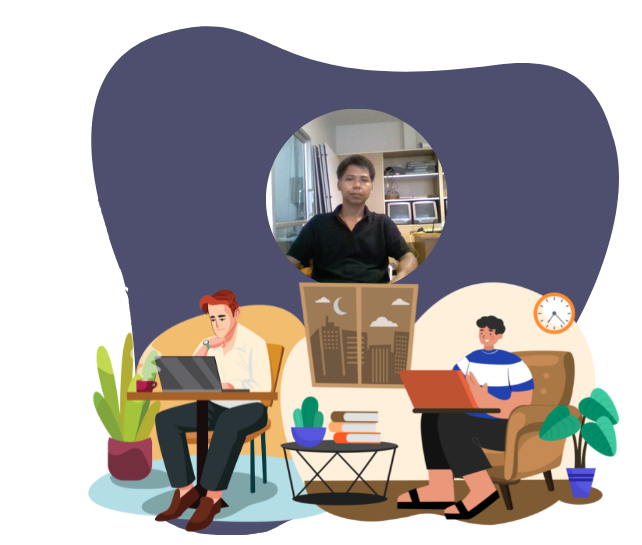
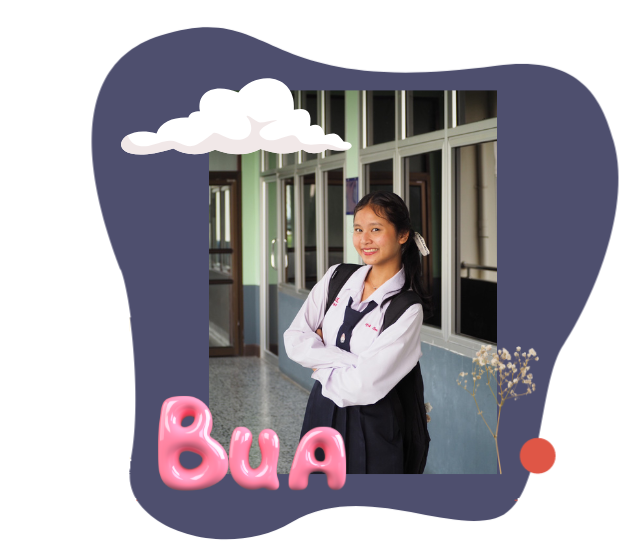
main

diff --git a/index.html b/index.html
@@ -6,7 +6,7 @@
     <meta charset="utf-8" />
     <meta http-equiv="x-ua-compatible" content="ie=edge" />
     <meta name="description" content="พอร์ตโฟลิโอ, ประวัติสวนตัว, พอร์ตเรียนต่อ, พอร์ตงาน, โปรไฟล์ของฉัน" />
-    <meta name="author" content="นายพัฒนา บุญถึง">
+    <meta name="author" content="นางสาวณัฐวดี เรืองอรุณ">
     <meta name="viewport" content="width=device-width, initial-scale=1, shrink-to-fit=no" />
 
     <!--====== Title ======-->
@@ -82,8 +82,8 @@
                         <div class="container">
                             <div class="number-email-cv">
                                 <ul class="number-email">
-                                    <li>มือถือ: (+66) 09-7247-812888</li>
-                                    <li>อีเมล์: pattanadevelop@gmail.com</li>
+                                    <li>มือถือ: (+66) 094-4499176</li>
+                                    <li>อีเมล์:28998.natthawadeep@gmail.com</li>
                                 </ul>
                                     <li><a href="index.html">ไทย</a> | <a href="index-en.html">อังกฤษ</a></li>
                             </div>
@@ -91,15 +91,15 @@
                                 <div class="col-lg-5">
                                     <div class="about-content pt-100 rpt-0 animate-element delay5 fadeInUp">
                                         <span class="sub-title mb-15 animate-element delay3 fadeInUp">เกี่ยวกับฉัน</span>
-                                        <h2 class="slide-title animate-element delay5 fadeInUp">สวัสดีขอรับ,<br> ผม <span class="text-typed a-typed a-typed-about" data-text="พัฒนา บุญถึง"></span></h2>
+                                        <h2 class="slide-title animate-element delay5 fadeInUp">สวัสดีค่ะ,<br> ผม <span class="text-typed a-typed a-typed-about" data-text="ณัฐวดี เรืองอรุณ"></span></h2>
                                         <h3 class="animate-element delay7 fadeInUp">โรงเรียนดาราสมุทร ศรีราชา</h3>
-                                        <p class="animate-element delay8 fadeInUp">วัน เดือน ปีเกิด<b>::)</b>  10 สิงหาคม 2521.</p>
-                                        <p class="animate-element delay8 fadeInUp">ชื่อเล่น<b>::)</b>  ยางมะตอย.</p>
-                                        <p class="animate-element delay8 fadeInUp">คติประจำใจ<b>::)</b>  อนาคตขึ้นอยู่กับสิ่งที่เราทำในปัจจุบัน.</p>
+                                        <p class="animate-element delay8 fadeInUp">วันจันทร์ที่ 25 ธันวาคม พ.ศ.2549<b>::)</b>  10 สิงหาคม 2521.</p>
+                                        <p class="animate-element delay8 fadeInUp">ชื่อเล่น<b>::)</b>  ใบบัว.</p>
+                                        <p class="animate-element delay8 fadeInUp">คติประจำใจ<b>::)</b>  พรุ่งนี้.</p>
                                         <div class="social-style-one mt-55 rmt-35 animate-element delay10 fadeInUp">
-                                            <a href="https://www.facebook.com/sirachadevelop"><i class="fab fa-facebook-f"></i></a>
-                                            <a href="https://www.twitter.com/sirachadevelop"><i class="fab fa-twitter"></i></a>
-                                            <a href="https://www.instagram/sirachadevelop"><i class="fab fa-instagram"></i></a>
+                                            <a href="https://www.facebook.com/profile.php?id=100007424147954&locale=th_TH"><i class="fab fa-facebook-f"></i></a>
+                                        
+                                            
                                         </div>
                                     </div>
                                 </div>
@@ -124,7 +124,7 @@
                                     <div class="service-image animate-element delay4 fadeInUp">
                                         <span class="sub-title mb-75">ไลท์สไตล์</span>
                                         <div class="service-inner-images">
-                                            <img src="assets/images/lifestyle/lifestyle.png" alt="Service">
+                                            <img src="assets/images/lifestyle/lifestyles.png" alt="Service">
                                             <img class="shape-one animate-element delay6 bounceIn" src="assets/images/lifestyle/shape-one-dark.png" alt="shape">
                                             <img class="shape-two animate-element delay8 bounceIn" src="assets/images/lifestyle/shape-two-dark.png" alt="shape">
                                         </div>
@@ -135,7 +135,7 @@
                                         <div class="section-title mb-25">
                                             <h2 class="slide-title animate-element delay5 fadeInUp">กิจกรรมพักผ่อน <span class="text-typed a-typed a-typed-services" data-text="กิจวัตร"></span> ในชีวิตประจำวันทั่วไป.</h2>
                                         </div>
-                                        <p class="animate-element delay6 fadeInUp">โปรดปราน การดำเนินชีวิตแบบไลท์สไตล์ ตามธรรมชาติ, ธรรมดาๆ แบบชิวๆ <b>ไม่หรูหรา แต่เรียบง่าย.</b></p>
+                                        <p class="animate-element delay6 fadeInUp">รักหมา รักแมว เหมือนพี่จะรักหนู <b>ไปดูปลาด้วยกันมั้ย.</b></p>
                                         <div class="our-services animate-element delay8 fadeInUp">
                                             <div class="service-item">
                                                 <div class="icon">
@@ -147,7 +147,7 @@
                                                 <div class="icon">
                                                     <img src="assets/images/lifestyle/service-icon2.png" alt="Icon">
                                                 </div>
-                                                <h4>เล่นเฟสต์บุ๊ค</h4>
+                                                <h4>เล่นติ๊กต๊อก</h4>
                                             </div>
                                             <div class="service-item">
                                                 <div class="icon">
@@ -159,7 +159,7 @@
                                                 <div class="icon">
                                                     <img src="assets/images/lifestyle/service-icon4.png" alt="Icon">
                                                 </div>
-                                                <h4>ว่ายน้ำ</h4>
+                                                <h4>นอน</h4>
                                             </div>
                                         </div>
                                     </div>
@@ -182,38 +182,38 @@
                                         <div class="bar-list a-progressbar pt-5 animate-element delay9 fadeInUp">
                                             <div class="bar-item">
                                                 <div class="row">
-                                                    <div class="col bar-item-title">ภาษาจีน</div>
-                                                    <div class="col-auto text-right bar-item-value">75%</div>
+                                                    <div class="col bar-item-title">ภาษาจอังกฤษ</div>
+                                                    <div class="col-auto text-right bar-item-value">50%</div>
                                                 </div>
                                                 <div class="progress">
-                                                    <div class="progress-bar" role="progressbar" aria-valuenow="75" aria-valuemin="0" aria-valuemax="100"></div>
+                                                    <div class="progress-bar" role="progressbar" aria-valuenow="75" aria-valuemin="0" aria-valuemax="40"></div>
                                                 </div>
                                             </div>
                                             <div class="bar-item">
                                                 <div class="row">
                                                     <div class="col bar-item-title">ภาษาญี่่ปุ่น</div>
-                                                    <div class="col-auto text-right bar-item-value">81%</div>
+                                                    <div class="col-auto text-right bar-item-value">50%</div>
                                                 </div>
                                                 <div class="progress">
-                                                    <div class="progress-bar" role="progressbar" aria-valuenow="81" aria-valuemin="0" aria-valuemax="100"></div>
+                                                    <div class="progress-bar" role="progressbar" aria-valuenow="81" aria-valuemin="0" aria-valuemax="50"></div>
                                                 </div>
                                             </div>
                                             <div class="bar-item">
                                                 <div class="row">
-                                                    <div class="col bar-item-title">คอมพิวเตอร์ออกแบบ</div>
+                                                    <div class="col bar-item-title">ทำอาหาร</div>
                                                     <div class="col-auto text-right bar-item-value">85%</div>
                                                 </div>
                                                 <div class="progress">
-                                                    <div class="progress-bar" role="progressbar" aria-valuenow="85" aria-valuemin="0" aria-valuemax="100"></div>
+                                                    <div class="progress-bar" role="progressbar" aria-valuenow="85" aria-valuemin="0" aria-valuemax="75"></div>
                                                 </div>
                                             </div>
                                             <div class="bar-item">
                                                 <div class="row">
-                                                    <div class="col bar-item-title">เขียนโปรแกรม</div>
+                                                    <div class="col bar-item-title">เล่นกีฬา</div>
                                                     <div class="col-auto text-right bar-item-value">70%</div>
                                                 </div>
                                                 <div class="progress">
-                                                    <div class="progress-bar" role="progressbar" aria-valuenow="70" aria-valuemin="0" aria-valuemax="100"></div>
+                                                    <div class="progress-bar" role="progressbar" aria-valuenow="70" aria-valuemin="0" aria-valuemax="50"></div>
                                                 </div>
                                             </div>
                                         </div>
@@ -244,21 +244,21 @@
                                         </div>
                                         <div class="edu-experi-wrap">
                                             <div class="edu-experi-item animate-element delay5 fadeInUp">
-                                                <span class="years">2019-2022</span>
+                                                <span class="years">2021-2024</span>
                                                 <div class="vacancy-content">
                                                     <span class="title">มัธยมศึกษาตอนปลาย</span>
-                                                    <h4 class="subject">แผนการเรียนจีน-อังกฤษ</h4>
+                                                    <h4 class="subject">แผนการเรียนญี่ปุ่น-อังกฤษ</h4>
                                                     <h6 class="institution">โรงเรียนดาราสมุทร</h6>
-                                                    <p>ทักษะฟัง พูด อ่าน เขียน ดานภาษาจีน อังกฤษ และแกรมมา ไวยากรด้านภาษา วัฒนธรรมต่างชาติ.</p>
+                                                    <p>ทักษะฟัง พูด อ่าน เขียน ดานภาษาญี่ปุ่น อังกฤษ และแกรมมา ไวยากรด้านภาษา วัฒนธรรมต่างชาติ.</p>
                                                 </div>
                                             </div>
                                             <div class="edu-experi-item animate-element delay8 fadeInUp">
-                                                <span class="years">2016-2019</span>
+                                                <span class="years">2018-2021</span>
                                                 <div class="vacancy-content">
                                                     <span class="title">มัธยมศึกษาตอนต้น</span>
-                                                    <h4 class="subject">แผนการเรียนวิทย์-คณิต</h4>
+                                                    <h4 class="subject">แผนการเรียนญี่ปุ่น-อังกฤษ</h4>
                                                     <h6 class="institution">โรงเรียนดาราสมุทร</h6>
-                                                    <p>วิทยาศาตร์ คณิตศาสตร์พื้นฐาน สิ่งมีชีวิต สสาร แรงโน้มถ่วง การบวก ลบ คูณ หาร ทศนิยม เรขาคณิตวิเคราะห์ .</p>
+                                                    <p>ทักษะฟัง พูด อ่าน เขียน ดานภาษาญี่ปุ่น อังกฤษ และแกรมมา ไวยากรด้านภาษา วัฒนธรรมต่างชาติ .</p>
                                                 </div>
                                             </div>
                                         </div>
@@ -272,7 +272,7 @@
                                         </div>
                                         <div class="edu-experi-wrap">
                                             <div class="edu-experi-item beahance animate-element delay7 fadeInUp">
-                                                <span class="years">2013-2016</span>
+                                                <span class="years">2010-2013</span>
                                                 <div class="vacancy-content">
                                                     <span class="title">ระดับก่อนประถมศึกษา</span>
                                                     <h4 class="subject">โรงเรียนดาราสมุทร</h4>
@@ -280,7 +280,7 @@
                                                 </div>
                                             </div>
                                             <div class="edu-experi-item dribbble animate-element delay10 fadeInUp">
-                                                <span class="years">2010-2013</span>
+                                                <span class="years">2013-2018</span>
                                                 <div class="vacancy-content">
                                                     <span class="title">ระดับประถมศึกษา</span>
                                                     <h4 class="subject">โรงเรียนดาราสมุทร</h4>
@@ -310,28 +310,23 @@
                             </div>
                             <div class="portfolio-wrap">
                                 <div class="portfolio-item animate-element delay11 fadeInUp">
-                                    <img src="assets/images/portfolio/portfolio_1.png" alt="Portfolio">
+                                    <img src="assets/images/portfolio/port01.png" alt="Portfolio">
                                 </div>
                                 <div class="portfolio-item animate-element delay13 fadeInUp">
-                                    <img src="assets/images/portfolio/portfolio_2.png" alt="Portfolio">
+                                    <img src="assets/images/portfolio/port02.png" alt="Portfolio">
                                 </div>
                                 <div class="portfolio-item">
-                                    <img src="assets/images/portfolio/portfolio_3.png" alt="Portfolio">
+                                    <img src="assets/images/portfolio/port03.png" alt="Portfolio">
                                 </div>
                                 <div class="portfolio-item">
-                                    <img src="assets/images/portfolio/portfolio_4.png" alt="Portfolio">
+                                    <img src="assets/images/portfolio/port04.png" alt="Portfolio">
                                 </div>
                                 <div class="portfolio-item">
-                                    <img src="assets/images/portfolio/portfolio_5.png" alt="Portfolio">
+                                    <img src="assets/images/portfolio/port05.png" alt="Portfolio">
                                 </div>
                                 <div class="portfolio-item">
-                                    <img src="assets/images/portfolio/portfolio_6.png" alt="Portfolio">
-                                </div>
-                                <div class="portfolio-item">
-                                    <img src="assets/images/portfolio/portfolio_7.png" alt="Portfolio">
-                                </div>
-                                <div class="portfolio-item">
-                                    <img src="assets/images/portfolio/portfolio_8.png" alt="Portfolio">
+                                    <img src="assets/images/portfolio/port06.png" alt="Portfolio">
+                                
                                 </div>
                             </div>
                         </div>
@@ -347,8 +342,8 @@
                                    <h2>ช่องทางการติดต่อ สื่อสาร</h2>
                                </div>
                                <span class="country list-inline-item animate-element delay9 fadeInUp">ศรีราชา, ชลบุรี</span>
-                               <h3 class="animate-element delay6 fadeInUp">pattanadevelop@gmail.com</h3>
-                               <h4 class="number list-inline-item animate-element delay10 fadeInUp">(+66) 09-7247-8128</h4>
+                               <h3 class="animate-element delay6 fadeInUp">28998.natthawadee@gmail.com</h3>gmail.com</h3>
+                               <h4 class="number list-inline-item animate-element delay10 fadeInUp">(+66) 094-4499176</h4>
                            </div>
                         </div>
                         <div class="footer-bottom-girl animate-element delay12 zoomIn">

diff --git a/index-en.html b/index-en.html
@@ -6,7 +6,7 @@
     <meta charset="utf-8" />
     <meta http-equiv="x-ua-compatible" content="ie=edge" />
     <meta name="description" content="Port Folio, CV, Resume, Profiles, Portfolio" />
-    <meta name="author" content="Mr.Pattana Boonthung">
+    <meta name="author" content="Ms.Natthawadee Rueandarun">
     <meta name="viewport" content="width=device-width, initial-scale=1, shrink-to-fit=no" />
 
     <!--====== Title ======-->
@@ -80,8 +80,8 @@
                         <div class="container">
                             <div class="number-email-cv">
                                 <ul class="number-email">
-                                    <li>Call me:(+66) 09-7247-8128</li>
-                                    <li>pattanadevelop@gmail.com</li>
+                                    <li>Call me:(+66) 094-4499176</li>
+                                    <li>28998.natthawadee@gmail.com</li>
                                 </ul>
                                     <li><a href="index.html">Thai</a> | <a href="index-en.html">English</a></li>
                             </div>
@@ -91,13 +91,12 @@
                                         <span class="sub-title mb-15 animate-element delay3 fadeInUp">About Me</span>
                                         <h2 class="slide-title animate-element delay5 fadeInUp">Hi,<br> I’m <span class="text-typed a-typed a-typed-about" data-text="Pattana Boonthung"></span></h2>
                                         <h3 class="animate-element delay7 fadeInUp">Darasamutr School</h3>
-                                        <p class="animate-element delay8 fadeInUp">Birthday<b>:</b>  10 August 1992.</p>
-                                        <p class="animate-element delay8 fadeInUp">Nickname<b>:</b>  Ma-Toy.</p>
-                                        <p class="animate-element delay8 fadeInUp">Epigram<b>:</b>  The future depends on what we do in the present.</p>
+                                        <p class="animate-element delay8 fadeInUp">Birthday<b>:</b>  25 Decemder 2006.</p>
+                                        <p class="animate-element delay8 fadeInUp">Nickname<b>:</b>  Baibua.</p>
+                                        <p class="animate-element delay8 fadeInUp">Epigram<b>:</b>  Tomorrow.</p>
                                         <div class="social-style-one mt-55 rmt-35 animate-element delay10 fadeInUp">
-                                            <a href="https://www.facebook.com/sirachadevelop"><i class="fab fa-facebook-f"></i></a>
-                                            <a href="https://www.twitter.com/sirachadevelop"><i class="fab fa-twitter"></i></a>
-                                            <a href="https://www.instagram/sirachadevelop"><i class="fab fa-instagram"></i></a>
+                                            <a href="https://www.facebook.com/profile.php?id=100007424147954&locale=th_TH"><i class="fab fa-facebook-f"></i></a>
+                                            
                                         </div>
                                     </div>
                                 </div>
@@ -133,7 +132,8 @@
                                         <div class="section-title mb-25">
                                             <h2 class="slide-title animate-element delay5 fadeInUp">What <span class="text-typed a-typed a-typed-services" data-text="Hobby"></span> provide to my life in here.</h2>
                                         </div>
-                                        <p class="animate-element delay6 fadeInUp">Favorite hobby to do on a daily basis, My Life Styles <b>simplicities.</b></p>
+                                        <p class="animate-element delay6 fadeInUp">I love dogs, I love cats, just like you love me. <b>
+                                            Want to go see the fish together?.</b></p>
                                         <div class="our-services animate-element delay8 fadeInUp">
                                             <div class="service-item">
                                                 <div class="icon">
@@ -145,7 +145,7 @@
                                                 <div class="icon">
                                                     <img src="assets/images/lifestyle/service-icon2.png" alt="Icon">
                                                 </div>
-                                                <h4>Facebook</h4>
+                                                <h4>Tiktok</h4>
                                             </div>
                                             <div class="service-item">
                                                 <div class="icon">
@@ -157,7 +157,7 @@
                                                 <div class="icon">
                                                     <img src="assets/images/lifestyle/service-icon4.png" alt="Icon">
                                                 </div>
-                                                <h4>Swimming</h4>
+                                                <h4>Sleep</h4>
                                             </div>
                                         </div>
                                     </div>
@@ -181,7 +181,7 @@
                                             <div class="bar-item">
                                                 <div class="row">
                                                     <div class="col bar-item-title">English Language</div>
-                                                    <div class="col-auto text-right bar-item-value">78%</div>
+                                                    <div class="col-auto text-right bar-item-value">50%</div>
                                                 </div>
                                                 <div class="progress">
                                                     <div class="progress-bar" role="progressbar" aria-valuenow="78" aria-valuemin="0" aria-valuemax="100"></div>
@@ -189,8 +189,8 @@
                                             </div>
                                             <div class="bar-item">
                                                 <div class="row">
-                                                    <div class="col bar-item-title">Chinese Language</div>
-                                                    <div class="col-auto text-right bar-item-value">95%</div>
+                                                    <div class="col bar-item-title">Japan Language</div>
+                                                    <div class="col-auto text-right bar-item-value">50%</div>
                                                 </div>
                                                 <div class="progress">
                                                     <div class="progress-bar" role="progressbar" aria-valuenow="95" aria-valuemin="0" aria-valuemax="100"></div>
@@ -198,8 +198,8 @@
                                             </div>
                                             <div class="bar-item">
                                                 <div class="row">
-                                                    <div class="col bar-item-title">Art & illustration</div>
-                                                    <div class="col-auto text-right bar-item-value">65%</div>
+                                                    <div class="col bar-item-title">Cook</div>
+                                                    <div class="col-auto text-right bar-item-value">85%</div>
                                                 </div>
                                                 <div class="progress">
                                                     <div class="progress-bar" role="progressbar" aria-valuenow="65" aria-valuemin="0" aria-valuemax="100"></div>
@@ -207,8 +207,8 @@
                                             </div>
                                             <div class="bar-item">
                                                 <div class="row">
-                                                    <div class="col bar-item-title">Programing</div>
-                                                    <div class="col-auto text-right bar-item-value">85%</div>
+                                                    <div class="col bar-item-title">Sport</div>
+                                                    <div class="col-auto text-right bar-item-value">70%</div>
                                                 </div>
                                                 <div class="progress">
                                                     <div class="progress-bar" role="progressbar" aria-valuenow="85" aria-valuemin="0" aria-valuemax="100"></div>
@@ -242,21 +242,21 @@
                                         </div>
                                         <div class="edu-experi-wrap">
                                             <div class="edu-experi-item animate-element delay5 fadeInUp">
-                                                <span class="years">2019-2022</span>
+                                                <span class="years">2021-2024</span>
                                                 <div class="vacancy-content">
                                                     <span class="title">Secondary School</span>
-                                                    <h4 class="subject">English-Chinese Program</h4>
+                                                    <h4 class="subject">English-Japan Program</h4>
                                                     <h6 class="institution">Darasamutr School</h6>
-                                                    <p>English communication, coversation, Gramma,  Chinese communication, Speaking.</p>
+                                                    <p>English communication, coversation, Gramma,  Japan communication, Speaking.</p>
                                                 </div>
                                             </div>
                                             <div class="edu-experi-item animate-element delay8 fadeInUp">
-                                                <span class="years">2016-2019</span>
+                                                <span class="years">2018-2021</span>
                                                 <div class="vacancy-content">
                                                     <span class="title">Secondary School</span>
-                                                    <h4 class="subject">Math-Science Program</h4>
+                                                    <h4 class="subject">English-Japan Program</h4>
                                                     <h6 class="institution">Darasamutr School</h6>
-                                                    <p>Mathemetics Calculus, geometry, Probabilities, Physical science and biological sciences.</p>
+                                                    <p>English communication, coversation, Gramma,  Japan communication, Speaking.</p>
                                                 </div>
                                             </div>
                                         </div>
@@ -270,7 +270,7 @@
                                         </div>
                                         <div class="edu-experi-wrap">
                                             <div class="edu-experi-item beahance animate-element delay7 fadeInUp">
-                                                <span class="years">2013-2016</span>
+                                                <span class="years">2010-2013</span>
                                                 <div class="vacancy-content">
                                                     <span class="title">Kingdergarten School</span>
                                                     <h4 class="subject">Darasamutr School</h4>
@@ -278,7 +278,7 @@
                                                 </div>
                                             </div>
                                             <div class="edu-experi-item dribbble animate-element delay10 fadeInUp">
-                                                <span class="years">2010-2013</span>
+                                                <span class="years">2013-2018</span>
                                                 <div class="vacancy-content">
                                                     <span class="title">Primary School</span>
                                                     <h4 class="subject">Darasamutr School</h4>
@@ -344,8 +344,8 @@
                                    <h2>Stay Connected</h2>
                                </div>
                                <span class="country list-inline-item animate-element delay9 fadeInUp">Si Racha, Chonburi</span>
-                               <h3 class="animate-element delay6 fadeInUp">pattanadevelop@gmail.com</h3>
-                               <h4 class="number list-inline-item animate-element delay10 fadeInUp">(+66) 09-7247-8128</h4>
+                               <h3 class="animate-element delay6 fadeInUp">28998.natthawadee@gmail.com</h3>
+                               <h4 class="number list-inline-item animate-element delay10 fadeInUp">(+66) 944499176</h4>
                                <!--<div class="social-style-two mt-25 animate-element delay11 fadeInUp">
                                     <a href="#"><img src="assets/images/contact/social-dribbble.png" alt="Social"></a>
                                     <a href="#"><img src="assets/images/contact/social-behance.png" alt="Social"></a>
